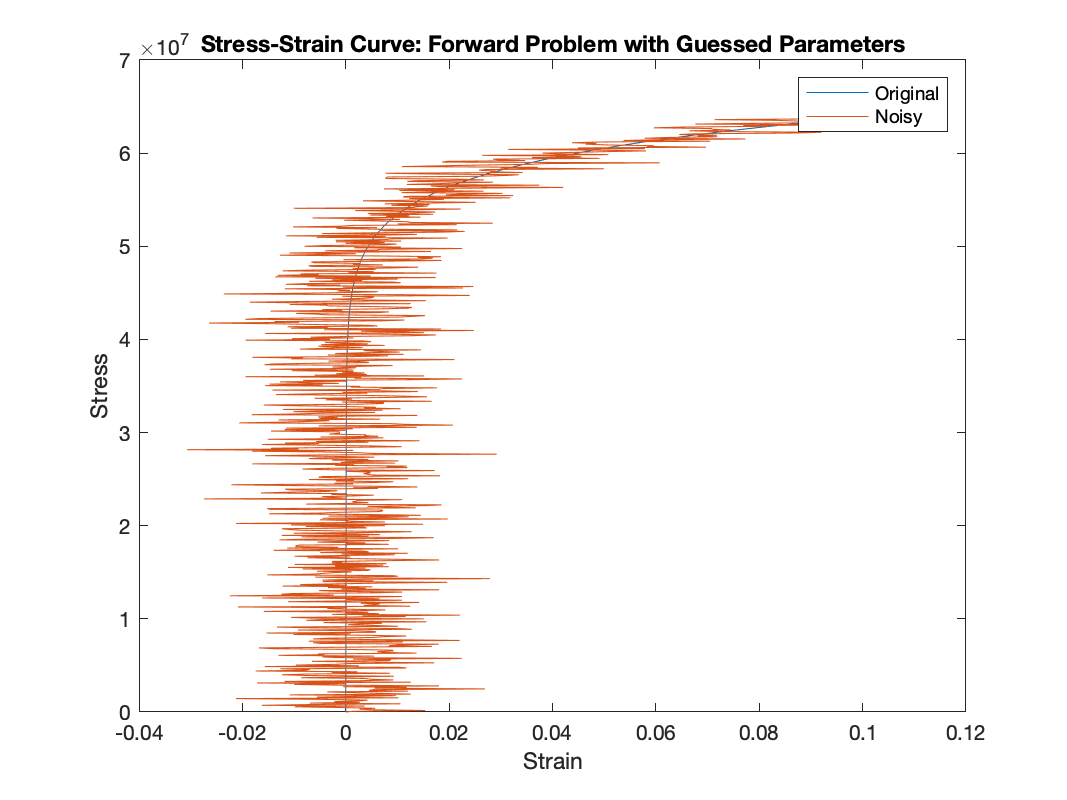
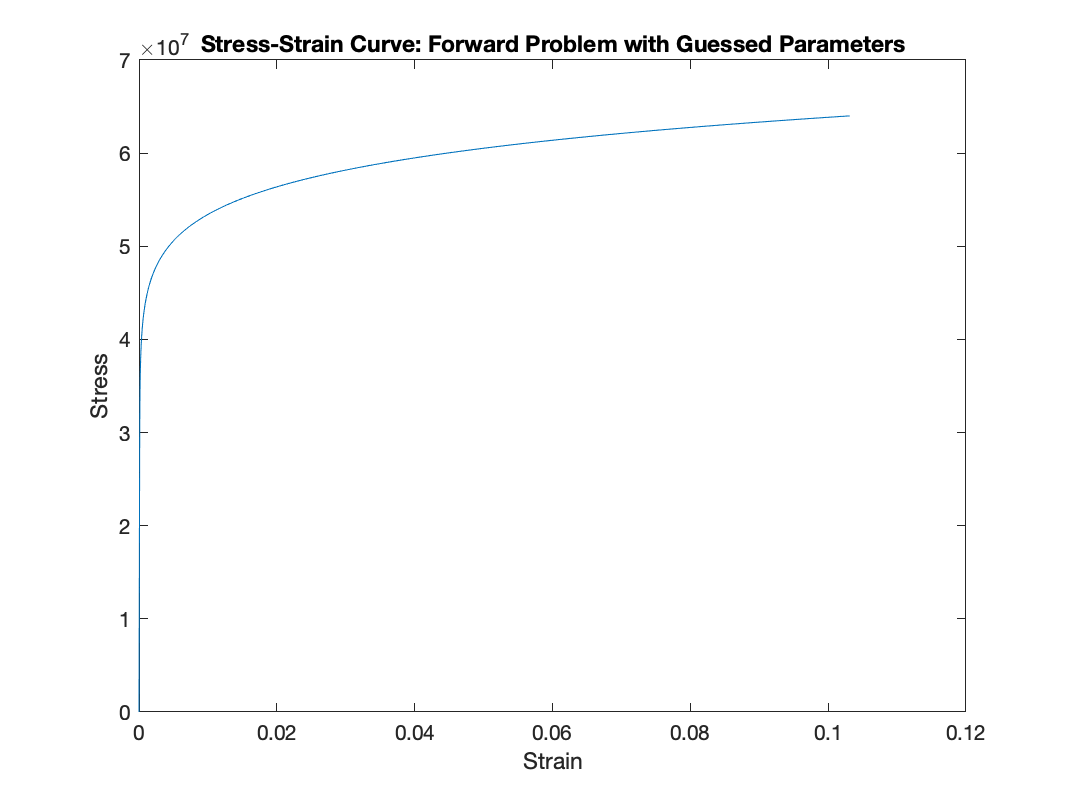
[base] Refactoring: continue (tag:w)

diff --git a/Project/misfit_global.m b/Project/misfit_global.m
@@ -4,18 +4,14 @@ misfit_values = zeros(length(E_range),length(K_range),length(n_range));
 for i = 1:length(E_range)
     for j = 1:length(K_range)
         for k = 1:length(n_range)
-            
-            beamtemp = beam;
-            beamtemp.E = E_range(i);
-            beamtemp.K = K_range(j);
-            beamtemp.n = n_range(k);
+            %[t, epsilon] = ode45(@forward_sigma, tn, 0, [], beamtemp, dsigma);
+            %epsilon = forana(beamtemp, tn, dsigma); % forward analysis
 
-            epsilon = forana(beamtemp, tn, dsigma); % forward analysis
             %%%%% Change misfit function here %%%%%%
             %misfit_temp = quad(@discrepancy, tn(1), tn(end), [], 0, eps_exp, epsilon, n_range(k), tn);
-            misfit_temp = sqrt(mean((epsilon - eps_exp).^2));
+            %misfit_temp = sqrt(mean((epsilon - eps_exp).^2));
             %%%%%%%%%%%%%%%%%%%%%%%%%%%%%%%%%%%%%%%%%
-
+            misfit_temp = misfit_sig([E_range(i), K_range(j), n_range(k)], eps_exp, tn, beam, dsigma);
             misfit_values(i,j,k) = misfit_temp; % store misfit value
             if misfit_temp < misfit_min
                 misfit_min = misfit_temp;
@@ -26,4 +22,8 @@ for i = 1:length(E_range)
         end
     end
 end
-
+fprintf('Optimal parameters found using manual search over ranges:\n');
+fprintf('E = %g Pa\n', E_opt);
+fprintf('K = %g Pa\n', K_opt);
+fprintf('n = %g\n', n_opt);
+fprintf('Misfit function value = %g\n', misfit_min);

diff --git a/Project/Project.m b/Project/Project.m
@@ -18,7 +18,7 @@ k_range = [70:1:120].*1e+06;
 tspan = [0:0.1:80]'; % s
 
 % Noise level in percentage
-noise_level = 1;
+noise_level = 0;
 
 % Define ODE function
 %[t, epsilon_exp]=ode45(@forward_sigma, tspan, 0, [], beam, dsigma);
@@ -56,6 +56,22 @@ misfit_plotter(e_range, k_range, n_range, epsilon_exp, t, beam, dsigma, 'K');
 
 % Global optimization using manually iterating over the range of parameters
 [misfit_values, E_opt, K_opt, n_opt] = misfit_global(epsilon_exp, t, beam, dsigma, e_range, k_range, n_range);
+% Define objective function
+fun = @(x) misfit_sig(x, epsilon_exp, t, beam, dsigma);
+
+% Define initial guess and search bounds
+x0 = [100e9; 60e7; 12]; % initial guess
+
+% Optimization
+options = optimset('Display','iter'); % display iterations
+[x_opt, fval] = fminsearch(fun, x0, options);   % local optimization
+
+% Display results
+fprintf('Optimal parameter values using fminsearch:\n');
+fprintf('E = %g Pa\n', x_opt(1));
+fprintf('K = %g Pa\n', x_opt(2));
+fprintf('n = %g\n', x_opt(3));
+fprintf('Misfit function value = %g\n', fval);
 
 % Generate mesh of E and n ranges
 mesh_plotter(misfit_values, e_range, k_range, n_range, 'K', beam);

diff --git a/Project/misfit_sig.m b/Project/misfit_sig.m
@@ -1,12 +1,10 @@
 function misfit_sig=misfit_sig(x, eps_exp, tn, beam, dsigma)
 % Calculation of the misfit function with no gradient estimation
-beamtemp = beam;
 beamtemp.n = x(3); % update of the parameter
 beamtemp.E = x(1);
 beamtemp.K = x(2);
 %[t, epsilon]=ode45(@forward_sigma, tn, 0,[], beamtemp, dsigma);
-t = tn;
-epsilon = forana(beamtemp, t, dsigma);
+epsilon = forana(beamtemp, tn, dsigma);
 
 % squared error integrated over time
 %misfit_sig=quad(@discrepancy,tn(1),tn(end),[],0,eps_exp,epsilon,x(3),tn);
